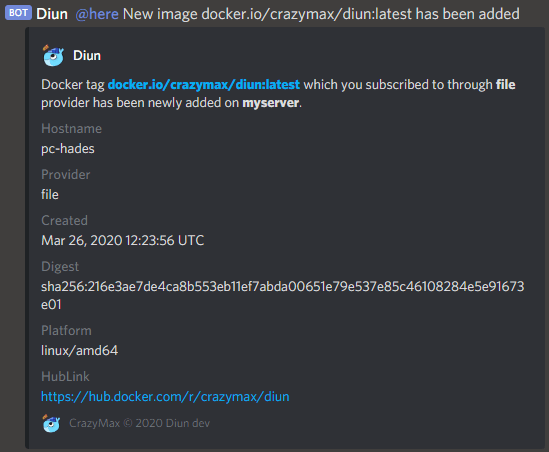
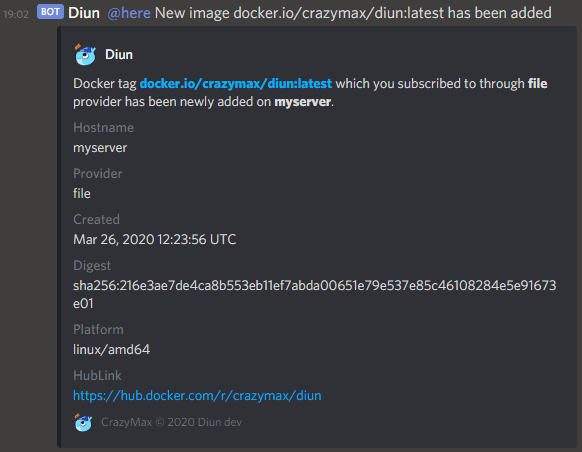
Small typo

Changed region(s): [[0.0, 0.0, 0.9599, 0.9912]]

diff --git a/internal/notif/discord/client.go b/internal/notif/discord/client.go
@@ -53,7 +53,7 @@ func (c *Client) Send(entry model.NotifEntry) error {
 	}
 
 	var textBuf bytes.Buffer
-	textTpl := template.Must(template.New("discord").Parse(fmt.Sprintf(`Docker tag %s which you subscribed to through **{{ .Entry.Provider }}** provider has been {{ if (eq .Entry.Status "new") }}newly added{{ else }}updated{{ end }} on **myserver**.`, tagTpl)))
+	textTpl := template.Must(template.New("discord").Parse(fmt.Sprintf(`Docker tag %s which you subscribed to through **{{ .Entry.Provider }}** provider has been {{ if (eq .Entry.Status "new") }}newly added{{ else }}updated{{ end }} on **{{ .Meta.Hostname }}**.`, tagTpl)))
 	if err := textTpl.Execute(&textBuf, struct {
 		Meta  model.Meta
 		Entry model.NotifEntry

diff --git a/CHANGELOG.md b/CHANGELOG.md
@@ -1,5 +1,9 @@
 # Changelog
 
+## 4.1.1 (2020/06/26)
+
+* Small typo
+
 ## 4.1.0 (2020/06/26)
 
 * Discord notifications (#110 #111)
